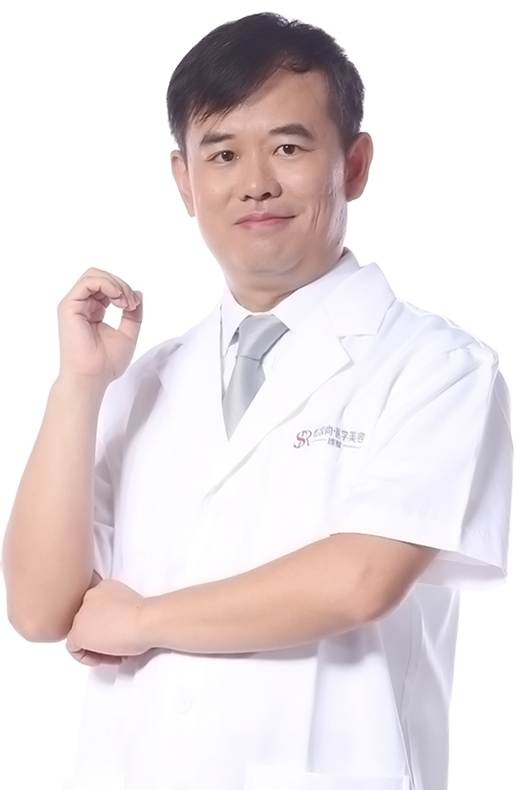
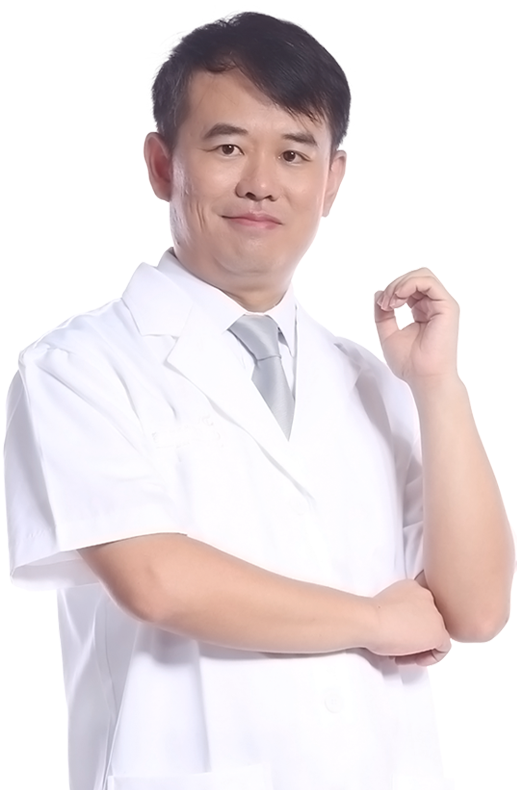
css图片更换
css图片更换

diff --git a/static.hzshuangmei.com/css/m/hzbbqb/css1.css b/static.hzshuangmei.com/css/m/hzbbqb/css1.css
@@ -42,7 +42,7 @@ a {
 }
 .main-top {
     width: 100%;
-    height: 1.9rem;
+    height: 1rem;
     border-bottom: .025rem dashed #fff;
 }
 .Mone-top {
@@ -584,7 +584,7 @@ a {
     height: 13.375rem;
     margin: 0 auto;
     overflow: hidden;
-    background: url(//img.hzshuangmei.com/m/hzbbqb/images/like.png) no-repeat bottom left;
+    background: url(//img.hzshuangmei.com/m/hzbbqb/images/lzk.png) no-repeat bottom left;
 }
 .doctorarc {
     width: 10rem;
